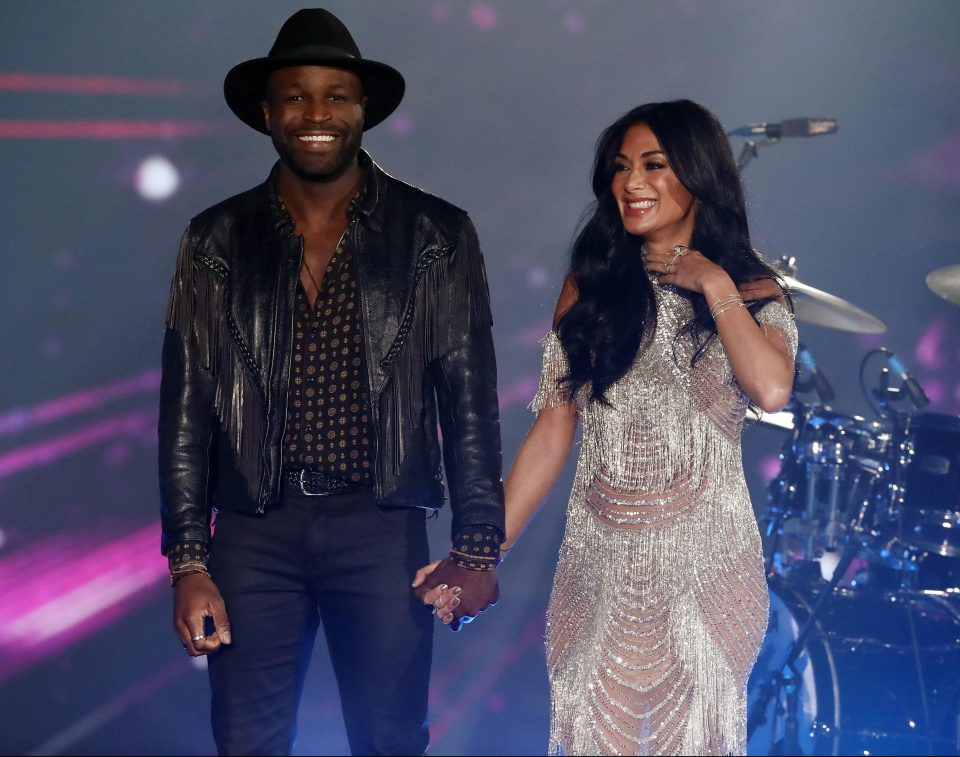
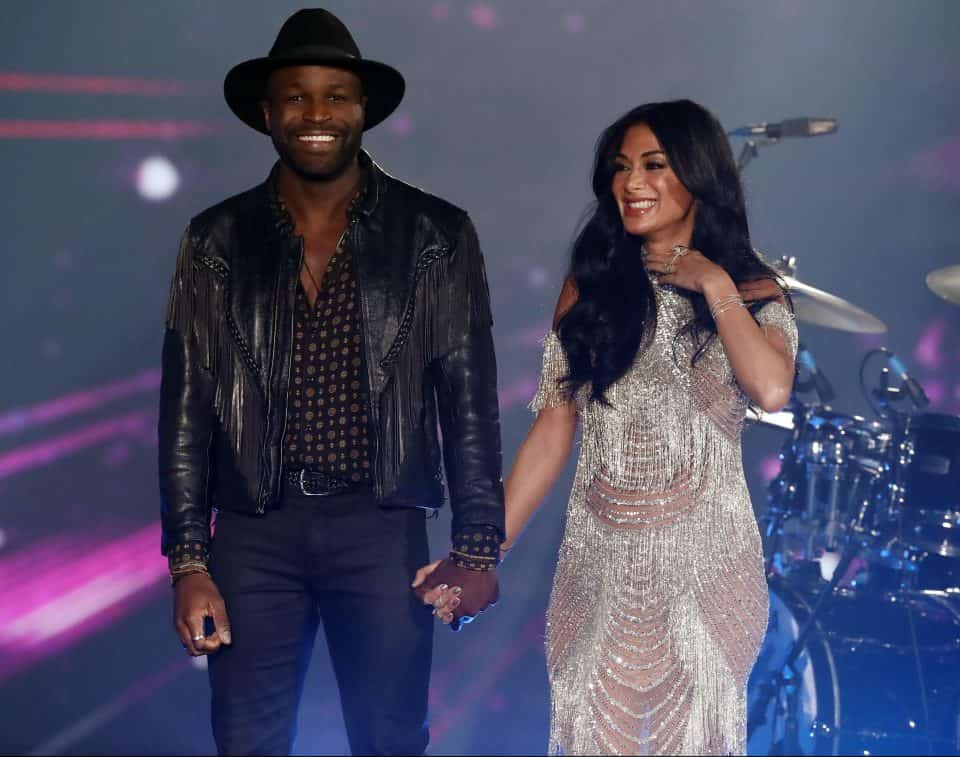
Downsizing picture quality

diff --git a/index.html b/index.html
@@ -228,7 +228,7 @@
   </div>
 
     <!-- FOOTER SECTION -->
-    <footer class="container">
+    <footer aira-label="Footer section" class="container">
       <ul class="socials">
         <li><a href="https://www.facebook.com/kevindavywhite" target="_blank" rel="noopener" alt="Facebook page of Kevin Davy White" aria-label="Visit our Facebook page (opens in new tab)"><i class="fab fa-facebook"></i></a></li>
         <li><a href="https://www.instagram.com/kevindavywhite" target="_blank" rel="noopener" alt="Instagram page of Kevin Davy White" aria-label="Visit our Instagram page (opens in new tab)"><i class="fab fa-instagram"></i></a></li>
